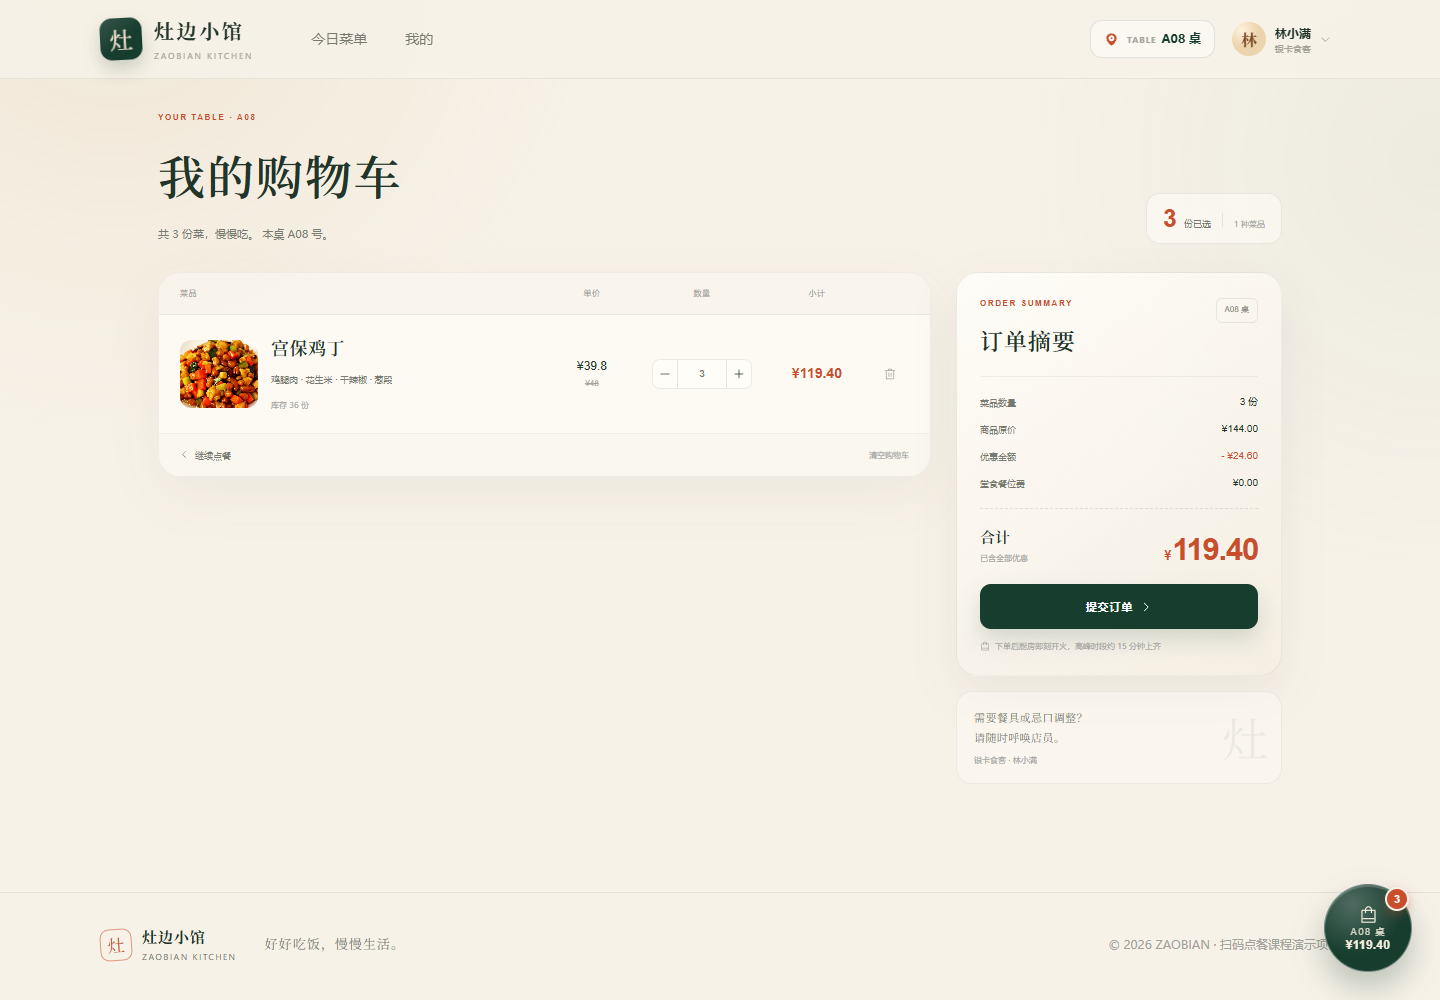
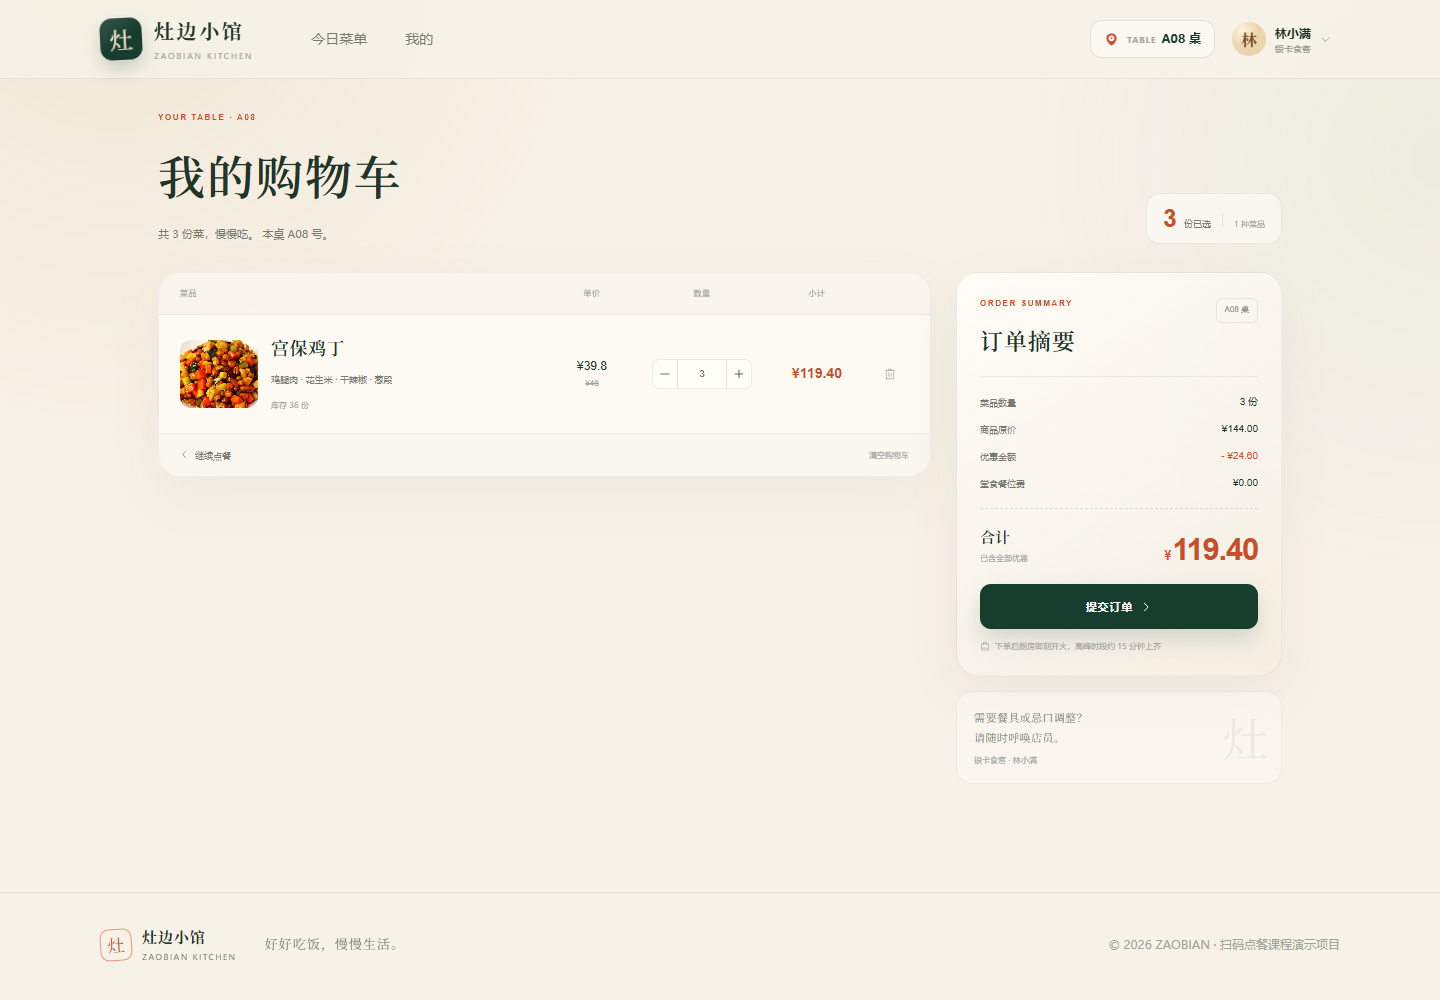
fix: 手机端去掉点击蓝色高亮，购物车页改为底部固定结算栏
- main.css: html 与可点击元素统一 transparent tap highlight
- CartView: ≤700px 增加固定结算栏（合计 + 提交订单），隐藏卡片内重复按钮
- CartDock: 购物车页面不再显示悬浮球，避免与结算栏重叠
- 验收脚本同步断言「购物车页无悬浮球」

Changed region(s): [[0.9062, 0.868, 1.0, 0.992]]

diff --git a/src/views/CartView.vue b/src/views/CartView.vue
@@ -385,6 +385,18 @@ function continueOrdering() {
       </Transition>
     </div>
 
+    <!-- 手机端固定结算栏：不用滚到底也能付款 -->
+    <div v-if="!isEmpty" class="mobile-checkout" role="region" aria-label="结算">
+      <div class="mobile-checkout-total">
+        <small>合计 · {{ totalCount }} 份</small>
+        <strong><small>¥</small>{{ formatMoney(cartStore.subtotal) }}</strong>
+      </div>
+      <el-button class="mobile-checkout-button" type="primary" round @click="submitOrder">
+        提交订单
+        <el-icon><ArrowRight /></el-icon>
+      </el-button>
+    </div>
+
     <el-dialog
       v-model="orderVisible"
       class="order-dialog"
@@ -868,6 +880,10 @@ function continueOrdering() {
   box-shadow: 0 11px 22px rgba(23, 61, 47, 0.16);
 }
 
+.mobile-checkout {
+  display: none;
+}
+
 .checkout-button:hover {
   background: var(--accent);
   box-shadow: 0 12px 24px rgba(180, 68, 36, 0.2);
@@ -1228,9 +1244,67 @@ function continueOrdering() {
 }
 
 @media (max-width: 700px) {
-  /* 底部悬浮购物球会盖住最后的按钮，页面预留一点下边距 */
+  /* 固定结算栏会盖住页面底部，预留等高下边距 */
   .cart-page {
-    padding-bottom: 96px;
+    padding-bottom: 108px;
+  }
+
+  .mobile-checkout {
+    position: fixed;
+    left: 0;
+    right: 0;
+    bottom: 0;
+    z-index: 92;
+    display: flex;
+    align-items: center;
+    gap: 12px;
+    padding: 10px 14px calc(10px + env(safe-area-inset-bottom, 0px));
+    border-top: 1px solid rgba(23, 61, 47, 0.1);
+    background: rgba(250, 246, 238, 0.97);
+    backdrop-filter: blur(16px);
+    box-shadow: 0 -10px 26px rgba(48, 39, 27, 0.08);
+  }
+
+  .mobile-checkout-total {
+    display: flex;
+    flex-direction: column;
+    gap: 2px;
+  }
+
+  .mobile-checkout-total small {
+    color: var(--text-muted);
+    font-size: 10px;
+    letter-spacing: 0.04em;
+    white-space: nowrap;
+  }
+
+  .mobile-checkout-total strong {
+    color: var(--accent);
+    font-family: var(--font-display);
+    font-size: 21px;
+    font-weight: 700;
+    line-height: 1;
+  }
+
+  .mobile-checkout-total strong small {
+    margin-right: 2px;
+    color: var(--accent);
+    font-size: 12px;
+  }
+
+  .mobile-checkout-button {
+    flex: 1;
+    height: 46px;
+    border-radius: 999px;
+    font-size: 15px;
+    font-weight: 600;
+    letter-spacing: 0.04em;
+  }
+
+  /* 卡片内的提交按钮与提示交给固定结算栏承担，避免两处付款入口 */
+  .checkout-button,
+  .checkout-tip {
+    display: none;
   }
 
   .page-container {

diff --git a/src/components/CartDock.vue b/src/components/CartDock.vue
@@ -1,6 +1,6 @@
 <script setup>
 import { computed, onBeforeUnmount, ref, watch } from 'vue'
-import { useRouter } from 'vue-router'
+import { useRoute, useRouter } from 'vue-router'
 import { ElMessage } from 'element-plus'
 import { Close, Delete, Minus, Plus, ShoppingBag } from '@element-plus/icons-vue'
 import { useCartStore } from '@/stores/cart'
@@ -11,11 +11,14 @@ import { lineTotalOf } from '@/utils/cart'
 import { formatMoney } from '@/utils/format'
 
 const router = useRouter()
+const route = useRoute()
 const cartStore = useCartStore()
 const ordersStore = useOrdersStore()
 const userStore = useUserStore()
 
 const open = ref(false)
+// 已经在购物车页面时隐藏悬浮球，避免和页面底部的结算栏重叠
+const onCartPage = computed(() => route.name === 'cart')
 const items = computed(() => cartStore.items)
 const totalCount = computed(() => cartStore.totalCount)
 const latestOrder = computed(() => ordersStore.ordersOf(userStore.profile?.username)[0] || null)
@@ -91,6 +94,7 @@ onBeforeUnmount(() => {
 <template>
   <!-- 悬浮购物车：圆形球 + 点击展开的悬浮窗，页面本身不跳转 -->
   <button
+    v-if="!onCartPage"
     class="cart-fab"
     :class="{ 'is-open': open, 'is-empty': !totalCount }"
     type="button"

diff --git a/src/styles/main.css b/src/styles/main.css
@@ -115,8 +115,22 @@ select {
   font-family: inherit;
 }
 
-button {
+/* 手机端点击时不要出现浏览器默认的蓝色高亮块（Chrome/Edge 的 tap highlight） */
+html {
   -webkit-tap-highlight-color: transparent;
+}
+
+a,
+button,
+[role='button'],
+label,
+summary,
+.el-button,
+.el-input__wrapper,
+.el-dropdown,
+.el-drawer {
+  -webkit-tap-highlight-color: transparent;
+  touch-action: manipulation;
 }
 
 ::selection {
